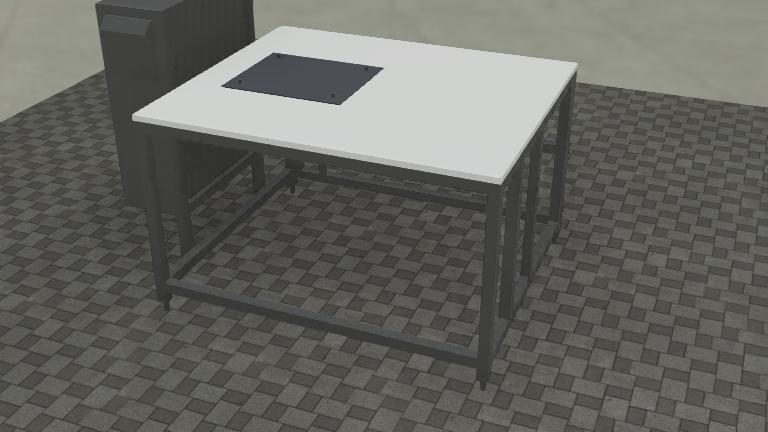
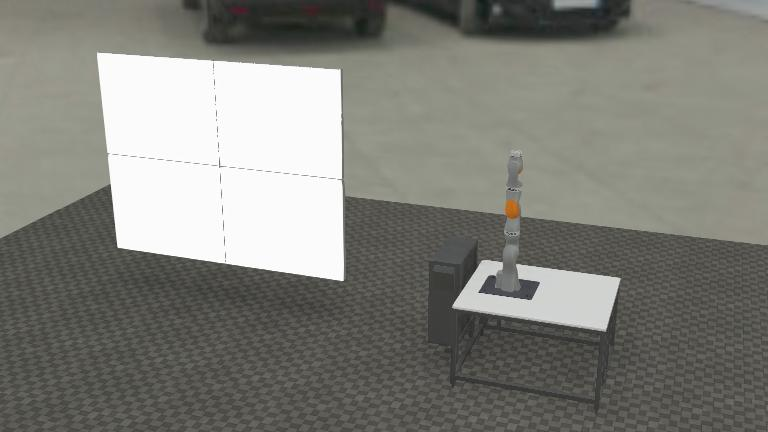
Append Workspace Limiter

diff --git a/Readme.md b/Readme.md
@@ -14,6 +14,7 @@ Facilities:
 
 1. Floor with different textures
 2. Table for a collaborative robot
+3. Workspace Limiter
 
 ---
 All models are also located on the website [Webots Cloud](https://webots.cloud/proto)
